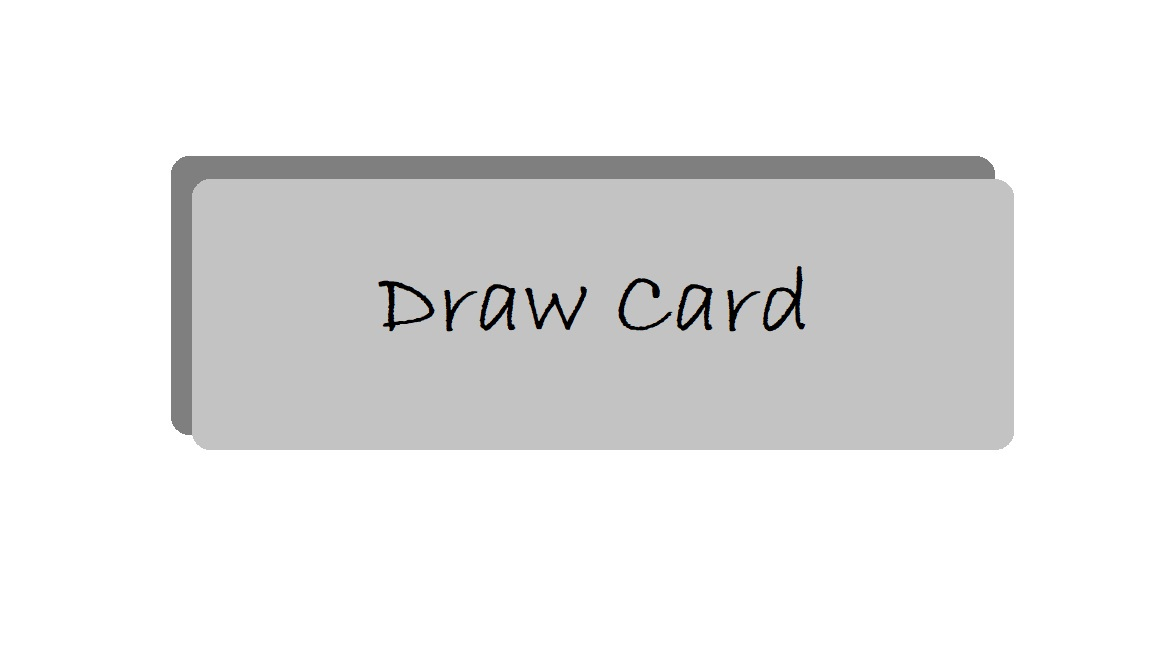
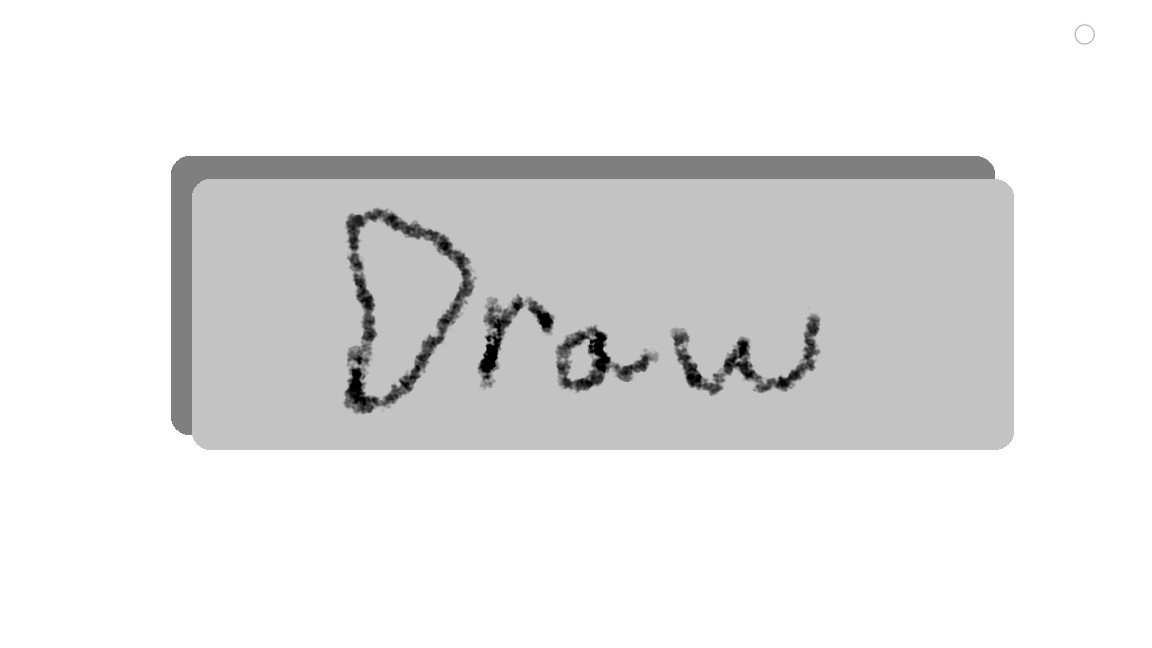
POC complete

Changed region(s): [[0.2812, 0.3086, 0.7188, 0.6481]]

diff --git a/test/pygame_example_1.py b/test/pygame_example_1.py
@@ -22,14 +22,12 @@ import pygame
 
 ROOT = os.path.dirname(os.path.dirname(__file__))
 
-hand = []
-
-deck = ["first card", "second card", "third card"]
-
-####
 
 class PygView(object):
 
+    hand = []
+
+    deck = ["first card", "second card", "third card"]
 
     def __init__(self, width=640, height=400, fps=30):
         """Initialize pygame, window, background, font,...
@@ -38,7 +36,6 @@ class PygView(object):
         pygame.display.set_caption("Press ESC to quit")
         self.width = width
         self.height = height
-        #self.height = width // 4
         self.screen = pygame.display.set_mode((self.width, self.height), pygame.DOUBLEBUF)
         self.background = pygame.Surface(self.screen.get_size()).convert()
         self.clock = pygame.time.Clock()
@@ -52,26 +49,46 @@ class PygView(object):
         """
         running = True
         pos = "poop"
+        show_hand = False
         while running:
-            pos = pygame.mouse.get_pos()
+            pos = pygame.mouse.get_pos()  # [width, height]
+
+            hand_button = self.draw_button("hand_button", (38, 160))
+            drawcard_button = self.draw_button("drawcard_button", (38, 360))
+
+            draw_clicked = False
+            hand_clicked = False
             for event in pygame.event.get():
                 if event.type == pygame.QUIT:
                     running = False
                 elif event.type == pygame.MOUSEBUTTONUP:
-                    pos = "poop"
+                    if self.check_collision_with_button(pos, drawcard_button):
+                        self.hand.append(self.deck.pop())
+                        draw_clicked = True
+                    elif self.check_collision_with_button(pos, hand_button):
+                        hand_clicked = True
+            if show_hand and not draw_clicked:
+                x = 50
+                y = 100
+                for card in self.hand:
+                    self.draw_text(card, (x, y))
+                    y += 30
+            elif not show_hand and hand_clicked:
+                show_hand = True
+            elif show_hand and draw_clicked:
+                show_hand = False
 
             milliseconds = self.clock.tick(self.fps)
             self.playtime += milliseconds / 1000.0
-            #self.draw_text("Position of mouse = {}".format(str(pos)))
-            self.draw_button("hand_button", (0, 0))
+            self.draw_pos_text("Position of mouse = {}".format(str(pos)))
+
 
             pygame.display.flip()
             self.screen.blit(self.background, (0, 0))
 
         pygame.quit()
 
-
-    def draw_text(self, text):
+    def draw_pos_text(self, text):
         """Center text in window
         """
         fw, fh = self.font.size(text) # fw: font width,  fh: font height
@@ -79,9 +96,25 @@ class PygView(object):
         # // makes integer division in python3
         self.screen.blit(surface, ((self.width - fw) // 2, (self.height - fh) // 2))
 
+    def draw_text(self, text, pos):
+        fw, fh = self.font.size(text)
+        surface = self.font.render(text, True, (0, 255, 0))
+        self.screen.blit(surface, pos)
+
     def draw_button(self, which_button, pos):
         button = pygame.image.load(os.path.join(ROOT, 'assets', '{}.jpg'.format(which_button)))
+        button = pygame.transform.scale(button, (100, 75))
         self.screen.blit(button, pos)
+        return pos
+
+
+
+    @staticmethod
+    def check_collision_with_button(click_pos, button_pos):
+        if button_pos[0] < click_pos[0] < button_pos[0] + 100:
+            if button_pos[1] < click_pos[1] < button_pos[1] + 75:
+                return True
+        return False
 
 
 ####
